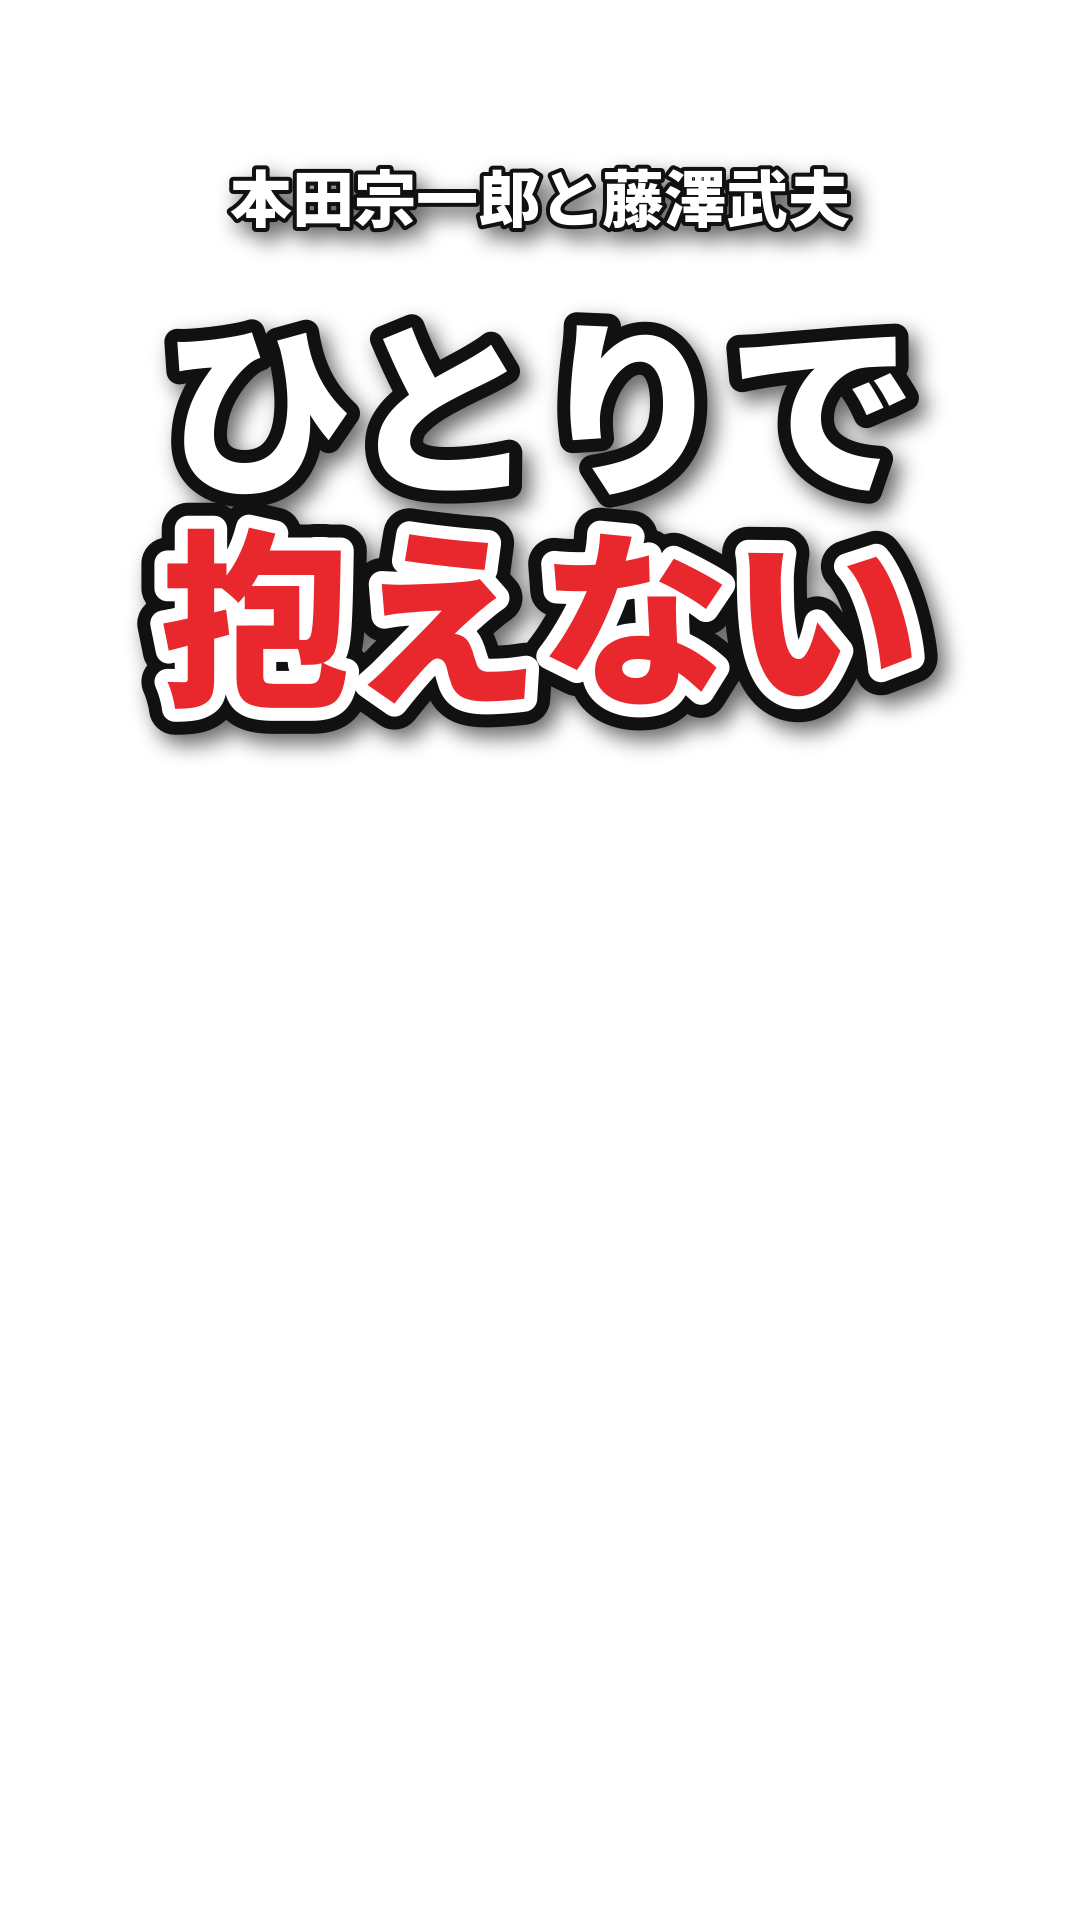
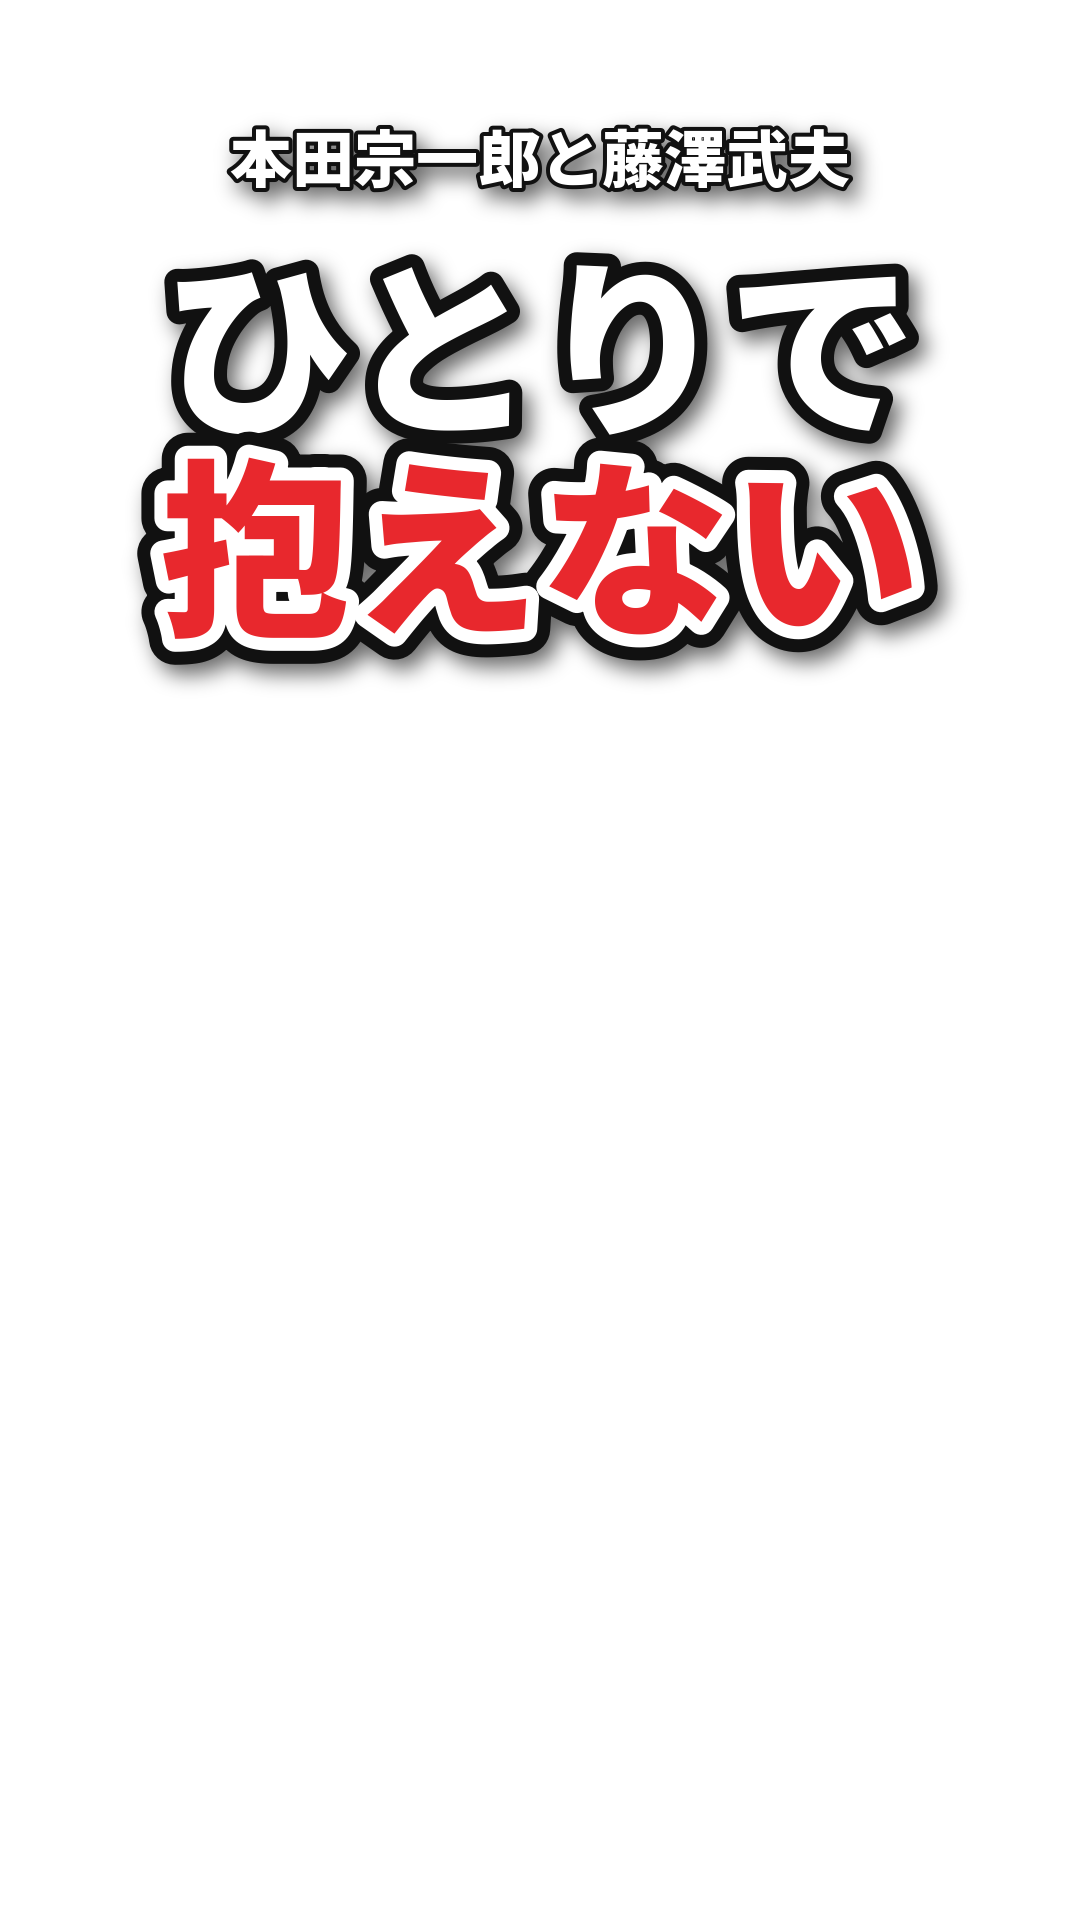
人物シリーズ第3話: ChatGPTのイラストに文字を重ねてサムネを完成（thumbnail-final.png）
Claude-Session: https://claude.ai/code/session_01KGSrqAvsWVHFiNxJhDZV1N

Changed region(s): [[0.1222, 0.0625, 0.8861, 0.4062]]

diff --git a/company/majime-no-me/episodes.md b/company/majime-no-me/episodes.md
@@ -19,7 +19,7 @@
 |---|---|---|---|---|---|---|
 | 1 | 1 | キアヌ・リーヴス（働き方）「見えない刃」 | ✅ 台本決定 10/05・画像完成。投稿したかは記録なし | 未決（おすすめ案A「キアヌ・リーヴスの最初の仕事は、スケート靴の刃を研ぐことだった」） | ✅ `company/assets/majime-no-me/keanu/thumbnail-final.png` | `company/secretary/ideas/majime-no-me-short-keanu.md`（inspiring-maxwell） |
 | 2 | 2 | キアヌ・リーヴス（お金）「お金の使い道」 | ✅ ほぼ完成（10/09「動画はそこそこできた」） | ✅ 世界的スターが、成功報酬を裏方に回した理由｜キアヌ・リーヴス | 下書き `company/assets/majime-no-me/keanu-money/thumbnail-draft.png`（A〜D案も同フォルダ） | `company/secretary/ideas/majime-no-me-short-keanu-money.md`（inspiring-maxwell） |
-| 3 | 4 | 本田宗一郎と藤澤武夫（人間関係）「ひとりで抱えなかった二人」 | 台本v2・画像プロンプト14枚・字幕色・サムネ文字PNG 10/11（**次に作る回**） | ✅ 苦手は、誰かの得意で埋めていい｜本田宗一郎と藤澤武夫 #short | 文字PNG `.../honda-fujisawa/thumbnail-text-overlay.png`（絵はChatGPTで作成待ち） | `company/majime-no-me/shorts-jinbutsu/honda-fujisawa/`（このブランチ。v1は focused-rubin） |
+| 3 | 4 | 本田宗一郎と藤澤武夫（人間関係）「ひとりで抱えなかった二人」 | 台本v2・画像プロンプト14枚・字幕色・サムネ完成 10/11（**次に作る回**） | ✅ 苦手は、誰かの得意で埋めていい｜本田宗一郎と藤澤武夫 #short | ✅ `.../honda-fujisawa/thumbnail-final.png`（文字：本田宗一郎と藤澤武夫／ひとりで／抱えない） | `company/majime-no-me/shorts-jinbutsu/honda-fujisawa/`（このブランチ。v1は focused-rubin） |
 | 4 | 4 | 大谷翔平（働き方）「夢の横に書いた、ゴミ拾い」 | 台本あり 10/10 | 未決 | なし | `company/majime-no-me/shorts-jinbutsu/ohtani-shohei/script-keanu-style.md`（focused-rubin） |
 | 5 | 4 | オセオラ・マッカーティ（お金）「洗濯の仕事で、奨学金をつくった人」 | 台本あり 10/10・フック未反映 | 未決 | なし | `.../shorts-jinbutsu/oseola-mccarty/script-keanu-style.md`（focused-rubin） |
 | 6 | — | ヘレン・ケラーとアン・サリバン（人間関係） | 案 | — | — | — |

diff --git a/company/majime-no-me/shorts-jinbutsu/honda-fujisawa/title-thumb-desc.md b/company/majime-no-me/shorts-jinbutsu/honda-fujisawa/title-thumb-desc.md
@@ -18,6 +18,7 @@
 - 文字は3つだけ: 小「本田宗一郎と藤澤武夫」／大「**ひとりで**」（白）／大「**抱えない**」（「抱えない」＝赤・白フチ）
 - 文字だけの透明PNG: `thumbnail-text-overlay.png`（1080×1920・Noto Sans JP Black）→ ChatGPTで作ったNo.1の絵に重ねる
 - 見本: `thumbnail-mock.png`（背景はCanva試作の小さいプレビューを引き伸ばしたもの。本番はChatGPTの絵で）
+- ✅ 完成（2026-10-11）: `thumbnail-final.png`（ChatGPTのイラスト `thumbnail-illustration-chatgpt.png` ＋ 文字）
 - 予備案: 大「苦手は」／大「**任せて**いい」（任せて＝黄）
 
 ## 説明文
